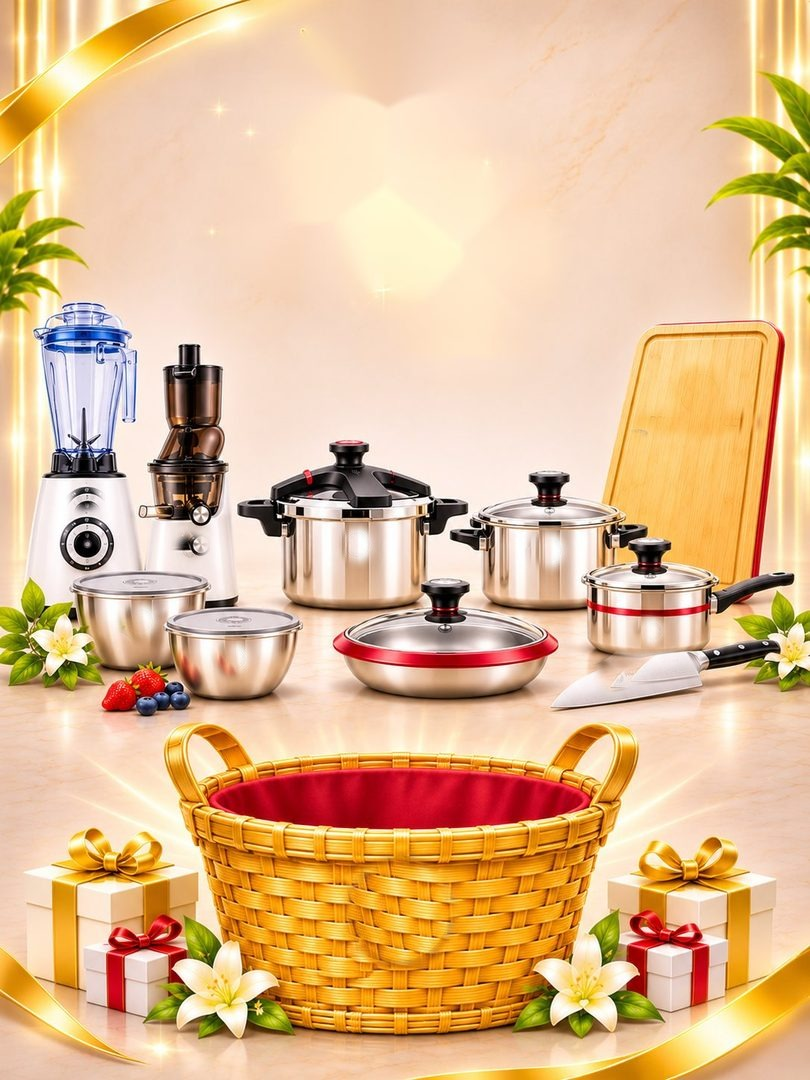
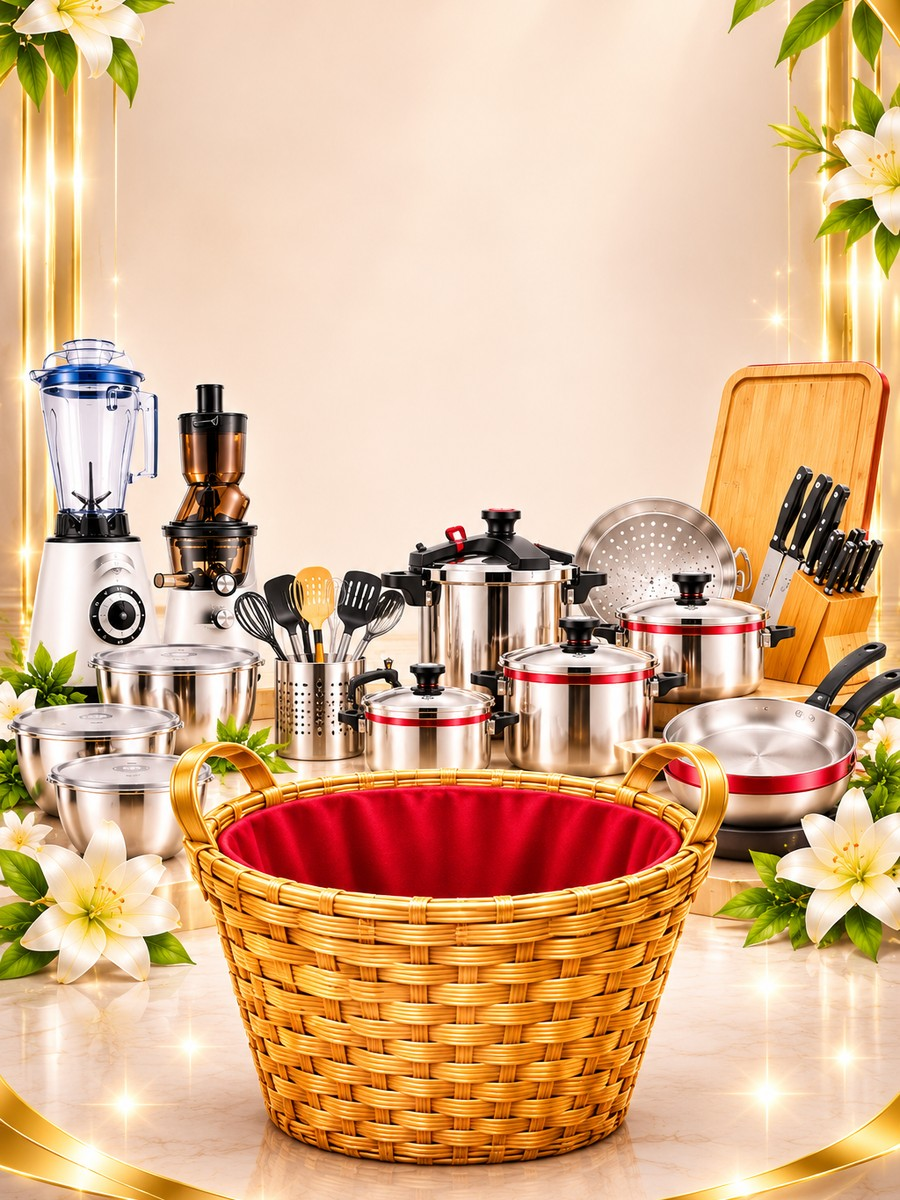
Tiro al regalo (anuncios): fondo nuevo de Katerine
Claude-Session: https://claude.ai/code/session_01XWBzL1oQyo7kcyYzjNCq7X

diff --git a/juego.js b/juego.js
@@ -438,7 +438,7 @@ async function startJuego(code, avance){
   /* ===== Tiro al regalo: un pajarito vuela por el cielo llevando el regalo colgado; si la estrella le pega, el regalo cae a la canasta ===== */
   function tiroHtml(){ if (saved.pend === undefined){ saved.pend = pickPrize(prizes); save(); } const p = prizes[saved.pend] || {n:"Regalo"};
     return `<style>@keyframes trnube{from{transform:translateX(-120px)}to{transform:translateX(480px)}}@keyframes tral{0%,100%{transform:scaleY(1)}50%{transform:scaleY(.8)}}</style>
-      <div id="tr" style="position:relative;width:min(100%,360px,48vh);aspect-ratio:3/4;margin:6px auto;border-radius:18px;overflow:hidden;background:url(&quot;${J.anuncio ? "fondo-ave-ad.jpg?v=1" : "fondo-ave.jpg?v=1"}&quot;) center/100% 100% no-repeat,#f7efe0;border:3px solid #e2bb4f;touch-action:manipulation;cursor:pointer;user-select:none">
+      <div id="tr" style="position:relative;width:min(100%,360px,48vh);aspect-ratio:3/4;margin:6px auto;border-radius:18px;overflow:hidden;background:url(&quot;${J.anuncio ? "fondo-ave-ad.jpg?v=2" : "fondo-ave.jpg?v=1"}&quot;) center/100% 100% no-repeat,#f7efe0;border:3px solid #e2bb4f;touch-action:manipulation;cursor:pointer;user-select:none">
       ${[[30,18,0],[95,14,-6],[160,16,-12]].map(([t,sz,d])=>`<div style="position:absolute;top:${t}px;left:0;font-size:${sz}px;opacity:.85;animation:trnube ${14+Math.abs(d)}s linear ${d}s infinite">✨</div>`).join("")}
       <div id="tr-g" style="position:absolute;top:0;left:0;width:80px;height:142px;will-change:transform">
         <img id="tr-b" src="ave.png?v=1" alt="" style="position:absolute;left:-52px;top:0;width:104px;height:auto;transform-origin:94px 47px;filter:drop-shadow(0 4px 6px rgba(120,80,0,.35))">

diff --git a/index.html b/index.html
@@ -192,13 +192,13 @@ if (/[?&]j=/.test(location.search)) { try { new Image().src = 'portada-ad.jpg?v=
 <script src="https://www.gstatic.com/firebasejs/10.12.2/firebase-firestore-compat.js"></script>
 <script src="config.js"></script>
 <script src="qr.js?v=1"></script>
-<script src="demo.js?v=202611212204"></script>
-<script src="anuncios.js?v=202611212204"></script>
-<script src="juego.js?v=202611212204"></script>
+<script src="demo.js?v=202611212231"></script>
+<script src="anuncios.js?v=202611212231"></script>
+<script src="juego.js?v=202611212231"></script>
 <script>
 /* ===== Constantes ===== */
 /* ===== Versión: si hay una nueva publicada, se avisa para recargar (así todas ven los mismos números) ===== */
-const APP_VER = "202611212204";
+const APP_VER = "202611212231";
 async function checkVer(){ try { const r = await fetch("version.txt?t="+Date.now(), {cache:"no-store"}); if (!r.ok) return; const v = (await r.text()).trim(); if (v && v !== APP_VER && !document.getElementById("ver-bar")){ const b = document.createElement("div"); b.id = "ver-bar"; b.className = "banner warn"; b.style.cssText = "position:fixed;top:8px;left:8px;right:8px;z-index:99;display:flex;justify-content:space-between;align-items:center;gap:8px"; b.innerHTML = "<span>🔄 Hay una versión nueva de Lunaya.</span><button class='btn small'>Actualizar</button>"; b.querySelector("button").onclick = () => location.reload(); document.body.appendChild(b); } } catch {} }
 setTimeout(checkVer, 3000); setInterval(checkVer, 5*60e3); document.addEventListener("visibilitychange", () => { if (!document.hidden) checkVer(); });
 const TZ = "America/Los_Angeles";

diff --git a/jugar.html b/jugar.html
@@ -36,7 +36,7 @@ window.today = () => laDate(Date.now());
 window.memberName = () => ""; window.firstName2 = n => String(n||"").trim().split(/\s+/)[0] || "";
 window.role = () => ""; window.ownerUid = () => ""; window.pagadorDe = id => id; window.render = () => {}; window.openModal = () => {}; window.closeModal = () => {};
 </script>
-<script src="juego.js?v=202611212204"></script>
+<script src="juego.js?v=202611212231"></script>
 <script>
 (function(){ const cfg = window.LUNAYA_CONFIG || {}; const qs = new URLSearchParams(location.search); const code = qs.get("j");
   if (!code){ document.getElementById("jg-early").innerHTML = "<i>🎁</i>Este link no está completo."; return; }
